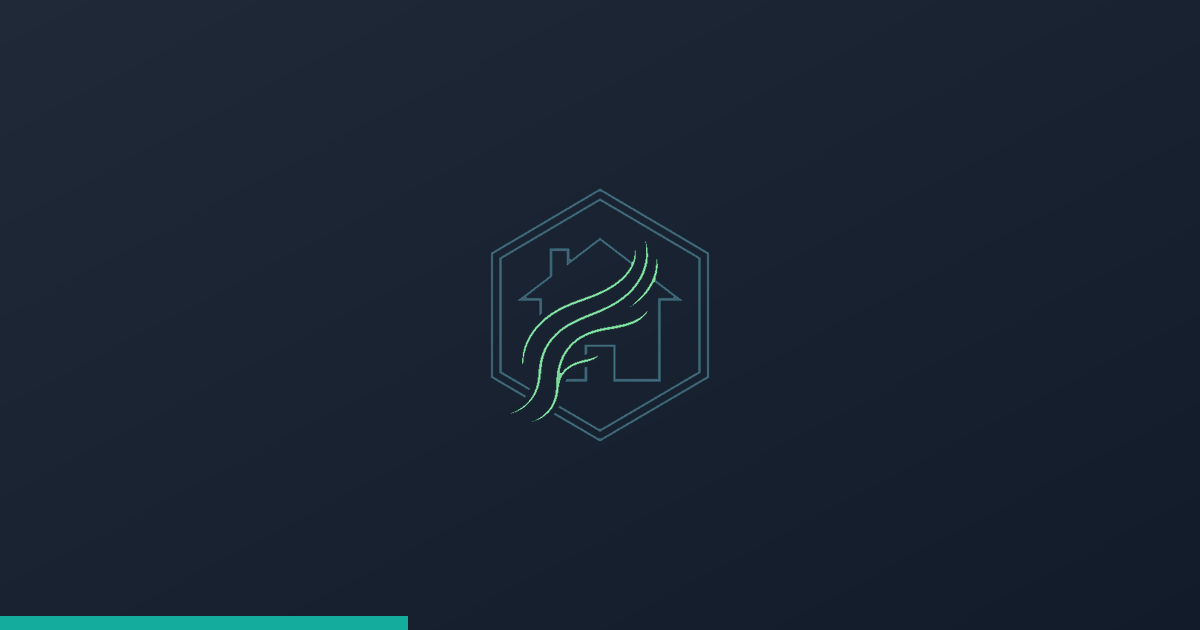
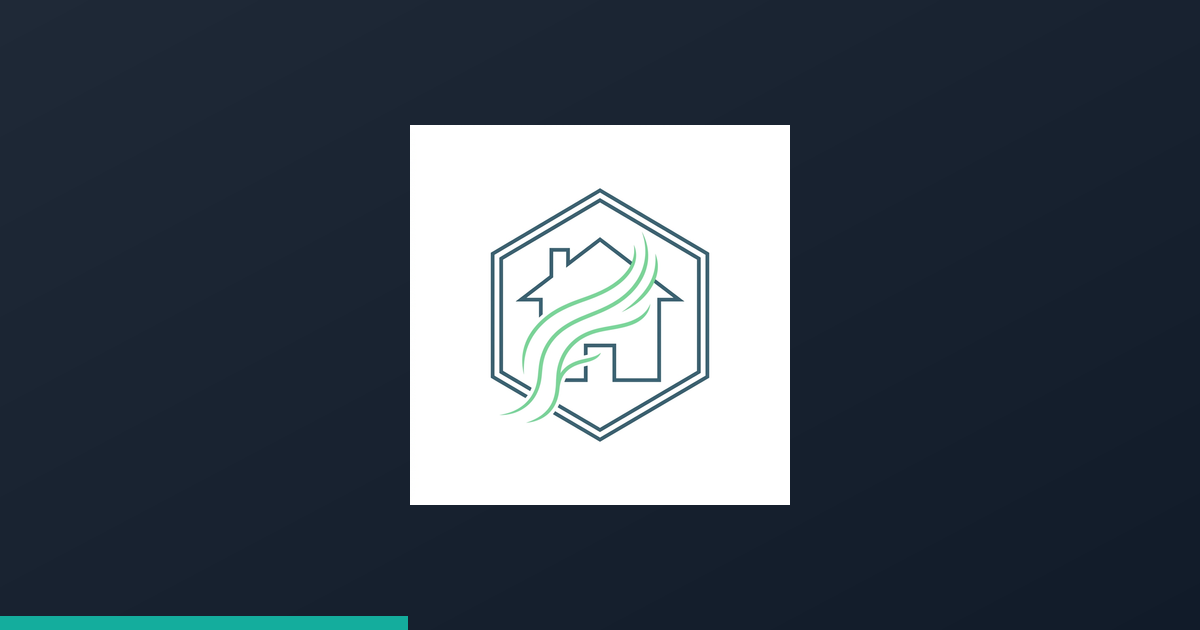
deploy: chathamkentductcleaning.ca (github actions)

Changed region(s): [[0.3392, 0.181, 0.6783, 0.8143]]

diff --git a/about/index.html b/about/index.html
@@ -149,7 +149,7 @@
 <div class="footer-grid">
 <div>
 <a class="brand footer-brand" href="/">
-<img alt="Chatham-Kent Duct Cleaning" class="brand__logo" decoding="async" height="64" loading="eager" src="/assets/img/logos-trans/chathamkentductcleaning.ca.png" width="64"/>
+<img alt="Chatham-Kent Duct Cleaning" class="brand__logo" decoding="async" height="64" loading="eager" src="/assets/img/logos/chathamkentductcleaning.ca.png" width="64"/>
 </a>
 <p class="footer-about">Honest, dependable air duct cleaning for Chatham-Kent, Ontario. Certified, insured, and available 24/7.</p>
 </div>

diff --git a/blog/index.html b/blog/index.html
@@ -102,7 +102,7 @@
 <div class="footer-grid">
 <div>
 <a class="brand footer-brand" href="/">
-<img alt="Chatham-Kent Duct Cleaning" class="brand__logo" decoding="async" height="64" loading="eager" src="/assets/img/logos-trans/chathamkentductcleaning.ca.png" width="64"/>
+<img alt="Chatham-Kent Duct Cleaning" class="brand__logo" decoding="async" height="64" loading="eager" src="/assets/img/logos/chathamkentductcleaning.ca.png" width="64"/>
 </a>
 <p class="footer-about">Honest, dependable air duct cleaning for Chatham-Kent, Ontario. Certified, insured, and available 24/7.</p>
 </div>

diff --git a/contact/index.html b/contact/index.html
@@ -174,7 +174,7 @@
 <div class="footer-grid">
 <div>
 <a class="brand footer-brand" href="/">
-<img alt="Chatham-Kent Duct Cleaning" class="brand__logo" decoding="async" height="64" loading="eager" src="/assets/img/logos-trans/chathamkentductcleaning.ca.png" width="64"/>
+<img alt="Chatham-Kent Duct Cleaning" class="brand__logo" decoding="async" height="64" loading="eager" src="/assets/img/logos/chathamkentductcleaning.ca.png" width="64"/>
 </a>
 <p class="footer-about">Honest, dependable air duct cleaning for Chatham-Kent, Ontario. Certified, insured, and available 24/7.</p>
 </div>

diff --git a/index.html b/index.html
@@ -353,7 +353,7 @@
 <div class="footer-grid">
 <div>
 <a class="brand footer-brand" href="/">
-<img alt="Chatham-Kent Duct Cleaning" class="brand__logo" decoding="async" height="64" loading="eager" src="/assets/img/logos-trans/chathamkentductcleaning.ca.png" width="64"/>
+<img alt="Chatham-Kent Duct Cleaning" class="brand__logo" decoding="async" height="64" loading="eager" src="/assets/img/logos/chathamkentductcleaning.ca.png" width="64"/>
 </a>
 <p class="footer-about">Honest, dependable air duct cleaning for Chatham-Kent, Ontario. Certified, insured, and available 24/7.</p>
 </div>

diff --git a/locations/bothwell/index.html b/locations/bothwell/index.html
@@ -203,7 +203,7 @@
 <div class="footer-grid">
 <div>
 <a class="brand footer-brand" href="/">
-<img alt="Chatham-Kent Duct Cleaning" class="brand__logo" decoding="async" height="64" loading="eager" src="/assets/img/logos-trans/chathamkentductcleaning.ca.png" width="64"/>
+<img alt="Chatham-Kent Duct Cleaning" class="brand__logo" decoding="async" height="64" loading="eager" src="/assets/img/logos/chathamkentductcleaning.ca.png" width="64"/>
 </a>
 <p class="footer-about">Honest, dependable air duct cleaning for Chatham-Kent, Ontario. Certified, insured, and available 24/7.</p>
 </div>

diff --git a/locations/highgate/index.html b/locations/highgate/index.html
@@ -203,7 +203,7 @@
 <div class="footer-grid">
 <div>
 <a class="brand footer-brand" href="/">
-<img alt="Chatham-Kent Duct Cleaning" class="brand__logo" decoding="async" height="64" loading="eager" src="/assets/img/logos-trans/chathamkentductcleaning.ca.png" width="64"/>
+<img alt="Chatham-Kent Duct Cleaning" class="brand__logo" decoding="async" height="64" loading="eager" src="/assets/img/logos/chathamkentductcleaning.ca.png" width="64"/>
 </a>
 <p class="footer-about">Honest, dependable air duct cleaning for Chatham-Kent, Ontario. Certified, insured, and available 24/7.</p>
 </div>

diff --git a/locations/thamesville/index.html b/locations/thamesville/index.html
@@ -203,7 +203,7 @@
 <div class="footer-grid">
 <div>
 <a class="brand footer-brand" href="/">
-<img alt="Chatham-Kent Duct Cleaning" class="brand__logo" decoding="async" height="64" loading="eager" src="/assets/img/logos-trans/chathamkentductcleaning.ca.png" width="64"/>
+<img alt="Chatham-Kent Duct Cleaning" class="brand__logo" decoding="async" height="64" loading="eager" src="/assets/img/logos/chathamkentductcleaning.ca.png" width="64"/>
 </a>
 <p class="footer-about">Honest, dependable air duct cleaning for Chatham-Kent, Ontario. Certified, insured, and available 24/7.</p>
 </div>

diff --git a/services/air-duct-cleaning/index.html b/services/air-duct-cleaning/index.html
@@ -225,7 +225,7 @@
 <div class="footer-grid">
 <div>
 <a class="brand footer-brand" href="/">
-<img alt="Chatham-Kent Duct Cleaning" class="brand__logo" decoding="async" height="64" loading="eager" src="/assets/img/logos-trans/chathamkentductcleaning.ca.png" width="64"/>
+<img alt="Chatham-Kent Duct Cleaning" class="brand__logo" decoding="async" height="64" loading="eager" src="/assets/img/logos/chathamkentductcleaning.ca.png" width="64"/>
 </a>
 <p class="footer-about">Honest, dependable air duct cleaning for Chatham-Kent, Ontario. Certified, insured, and available 24/7.</p>
 </div>

diff --git a/services/commercial-duct-cleaning/index.html b/services/commercial-duct-cleaning/index.html
@@ -225,7 +225,7 @@
 <div class="footer-grid">
 <div>
 <a class="brand footer-brand" href="/">
-<img alt="Chatham-Kent Duct Cleaning" class="brand__logo" decoding="async" height="64" loading="eager" src="/assets/img/logos-trans/chathamkentductcleaning.ca.png" width="64"/>
+<img alt="Chatham-Kent Duct Cleaning" class="brand__logo" decoding="async" height="64" loading="eager" src="/assets/img/logos/chathamkentductcleaning.ca.png" width="64"/>
 </a>
 <p class="footer-about">Honest, dependable air duct cleaning for Chatham-Kent, Ontario. Certified, insured, and available 24/7.</p>
 </div>

diff --git a/services/dryer-vent-cleaning/index.html b/services/dryer-vent-cleaning/index.html
@@ -225,7 +225,7 @@
 <div class="footer-grid">
 <div>
 <a class="brand footer-brand" href="/">
-<img alt="Chatham-Kent Duct Cleaning" class="brand__logo" decoding="async" height="64" loading="eager" src="/assets/img/logos-trans/chathamkentductcleaning.ca.png" width="64"/>
+<img alt="Chatham-Kent Duct Cleaning" class="brand__logo" decoding="async" height="64" loading="eager" src="/assets/img/logos/chathamkentductcleaning.ca.png" width="64"/>
 </a>
 <p class="footer-about">Honest, dependable air duct cleaning for Chatham-Kent, Ontario. Certified, insured, and available 24/7.</p>
 </div>

diff --git a/services/duct-sanitizing/index.html b/services/duct-sanitizing/index.html
@@ -225,7 +225,7 @@
 <div class="footer-grid">
 <div>
 <a class="brand footer-brand" href="/">
-<img alt="Chatham-Kent Duct Cleaning" class="brand__logo" decoding="async" height="64" loading="eager" src="/assets/img/logos-trans/chathamkentductcleaning.ca.png" width="64"/>
+<img alt="Chatham-Kent Duct Cleaning" class="brand__logo" decoding="async" height="64" loading="eager" src="/assets/img/logos/chathamkentductcleaning.ca.png" width="64"/>
 </a>
 <p class="footer-about">Honest, dependable air duct cleaning for Chatham-Kent, Ontario. Certified, insured, and available 24/7.</p>
 </div>

diff --git a/services/duct-sealing-repair/index.html b/services/duct-sealing-repair/index.html
@@ -225,7 +225,7 @@
 <div class="footer-grid">
 <div>
 <a class="brand footer-brand" href="/">
-<img alt="Chatham-Kent Duct Cleaning" class="brand__logo" decoding="async" height="64" loading="eager" src="/assets/img/logos-trans/chathamkentductcleaning.ca.png" width="64"/>
+<img alt="Chatham-Kent Duct Cleaning" class="brand__logo" decoding="async" height="64" loading="eager" src="/assets/img/logos/chathamkentductcleaning.ca.png" width="64"/>
 </a>
 <p class="footer-about">Honest, dependable air duct cleaning for Chatham-Kent, Ontario. Certified, insured, and available 24/7.</p>
 </div>
